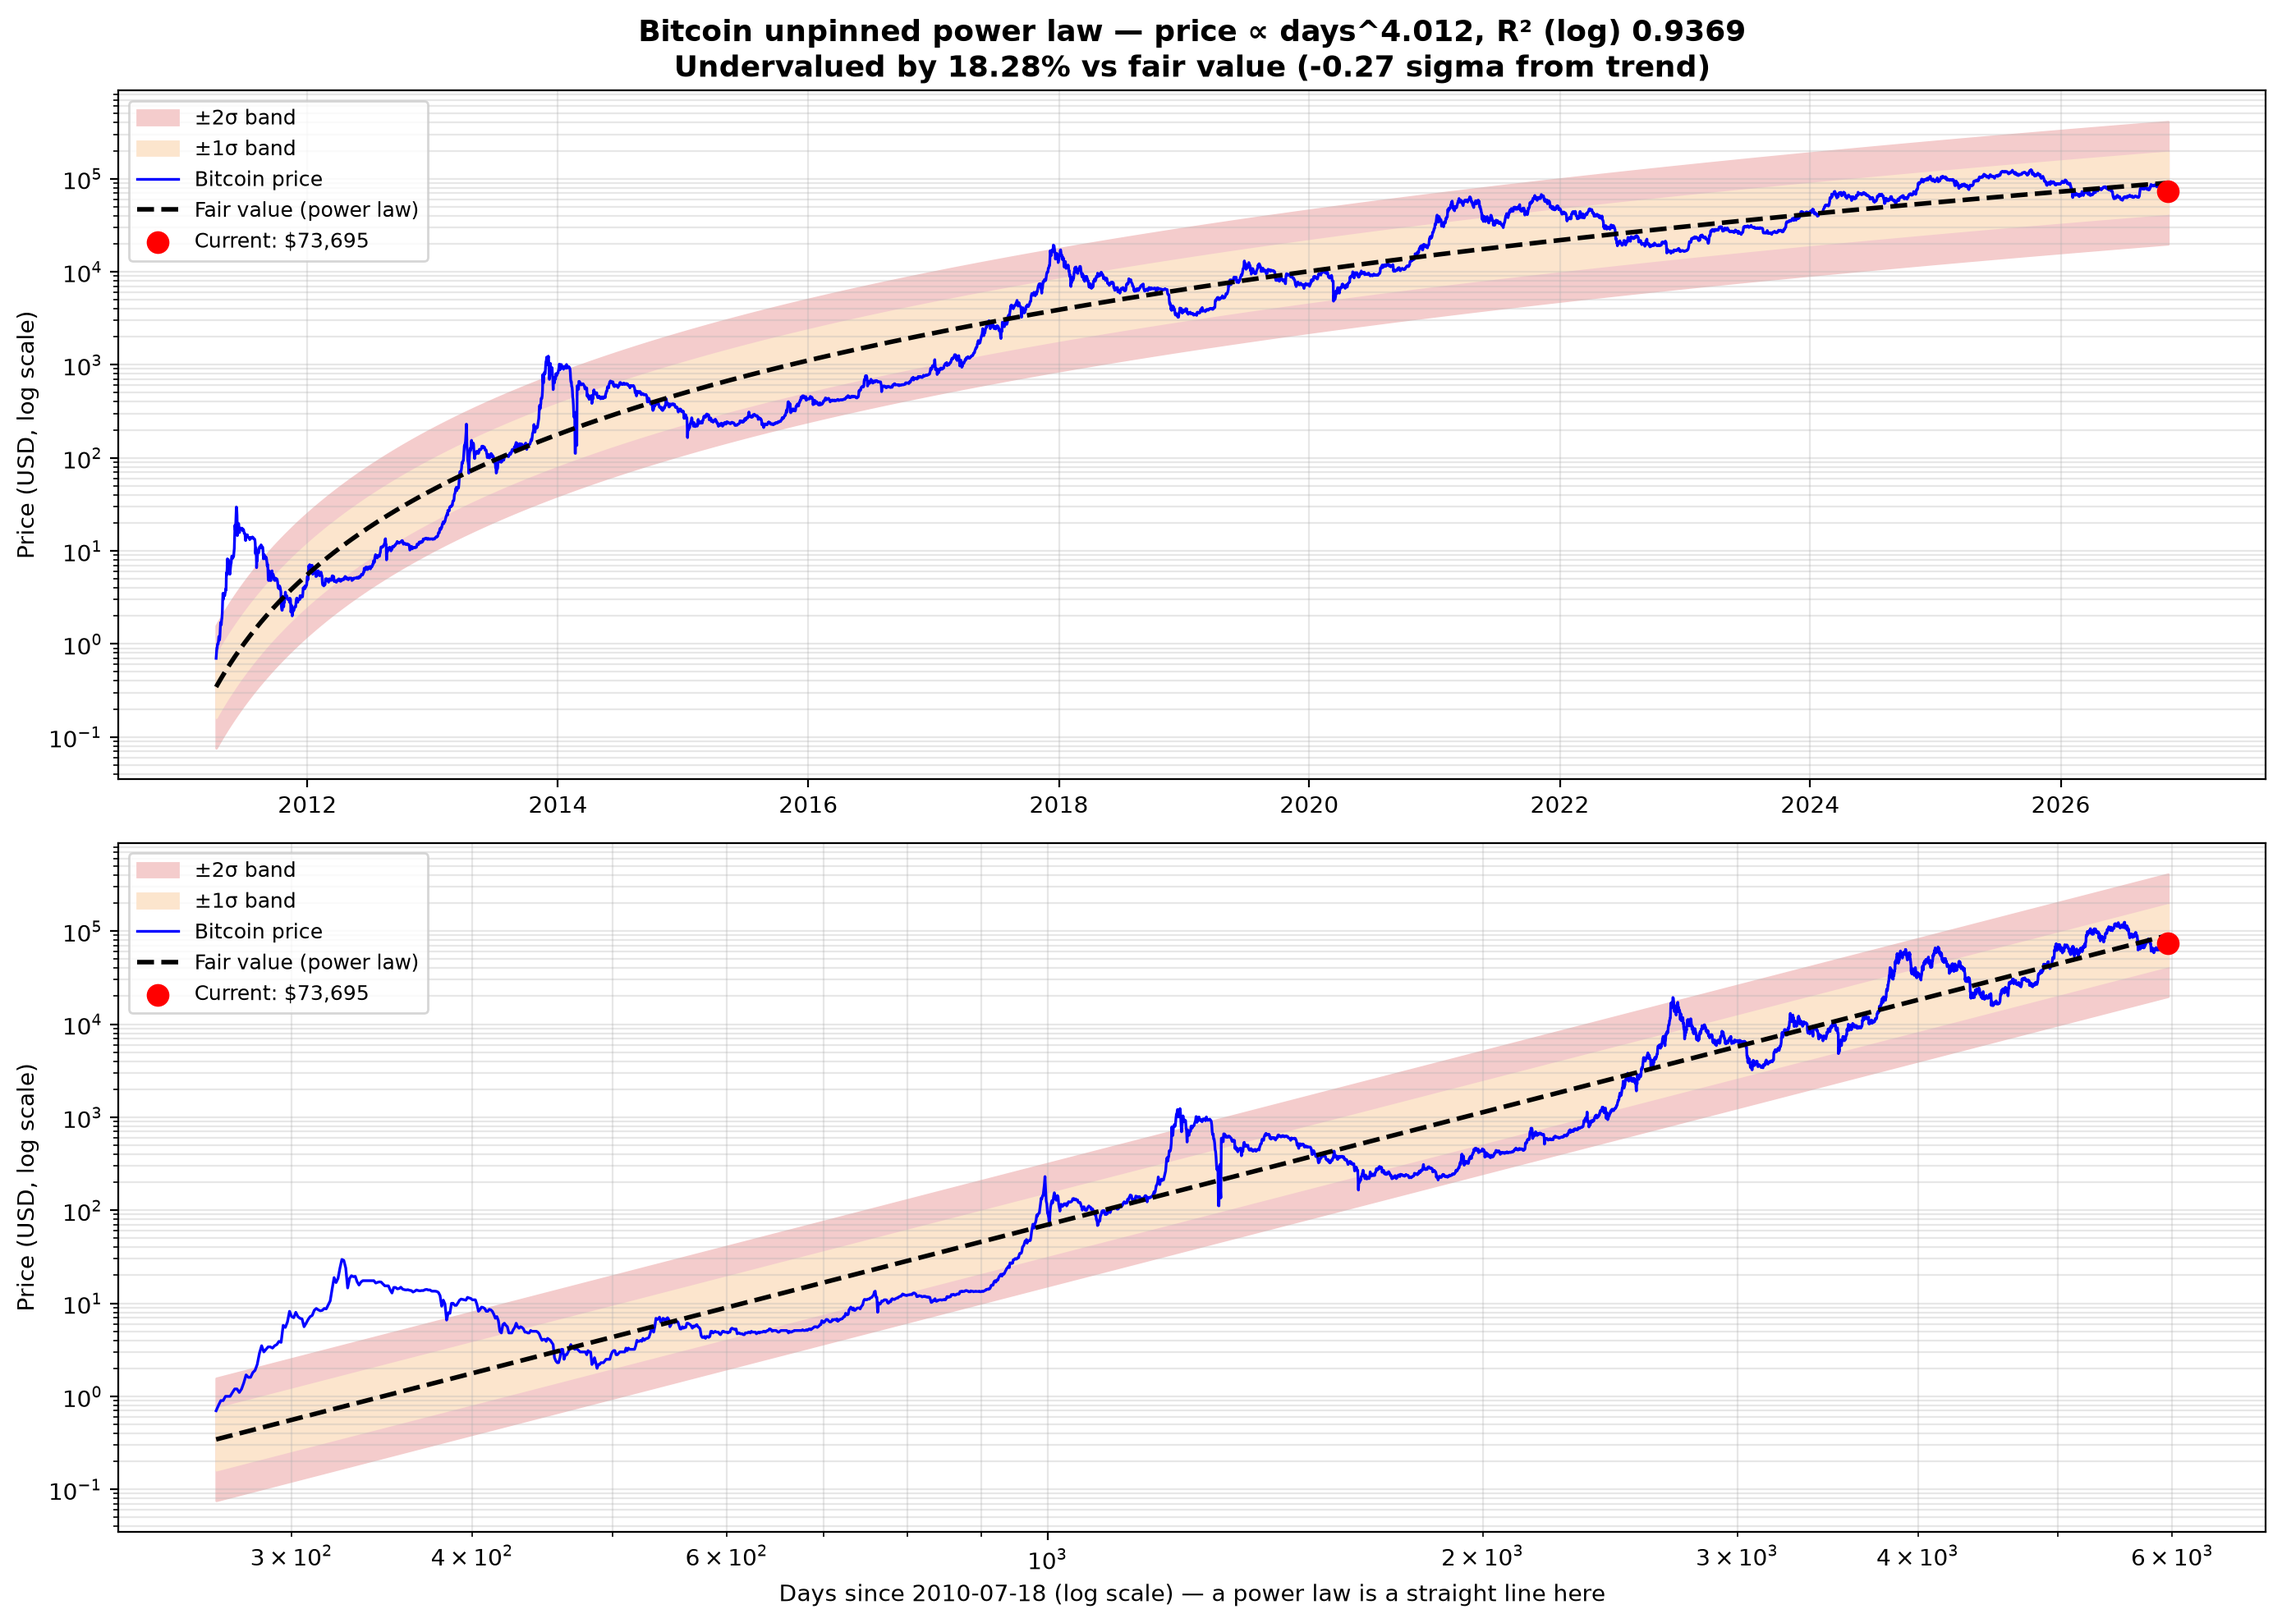
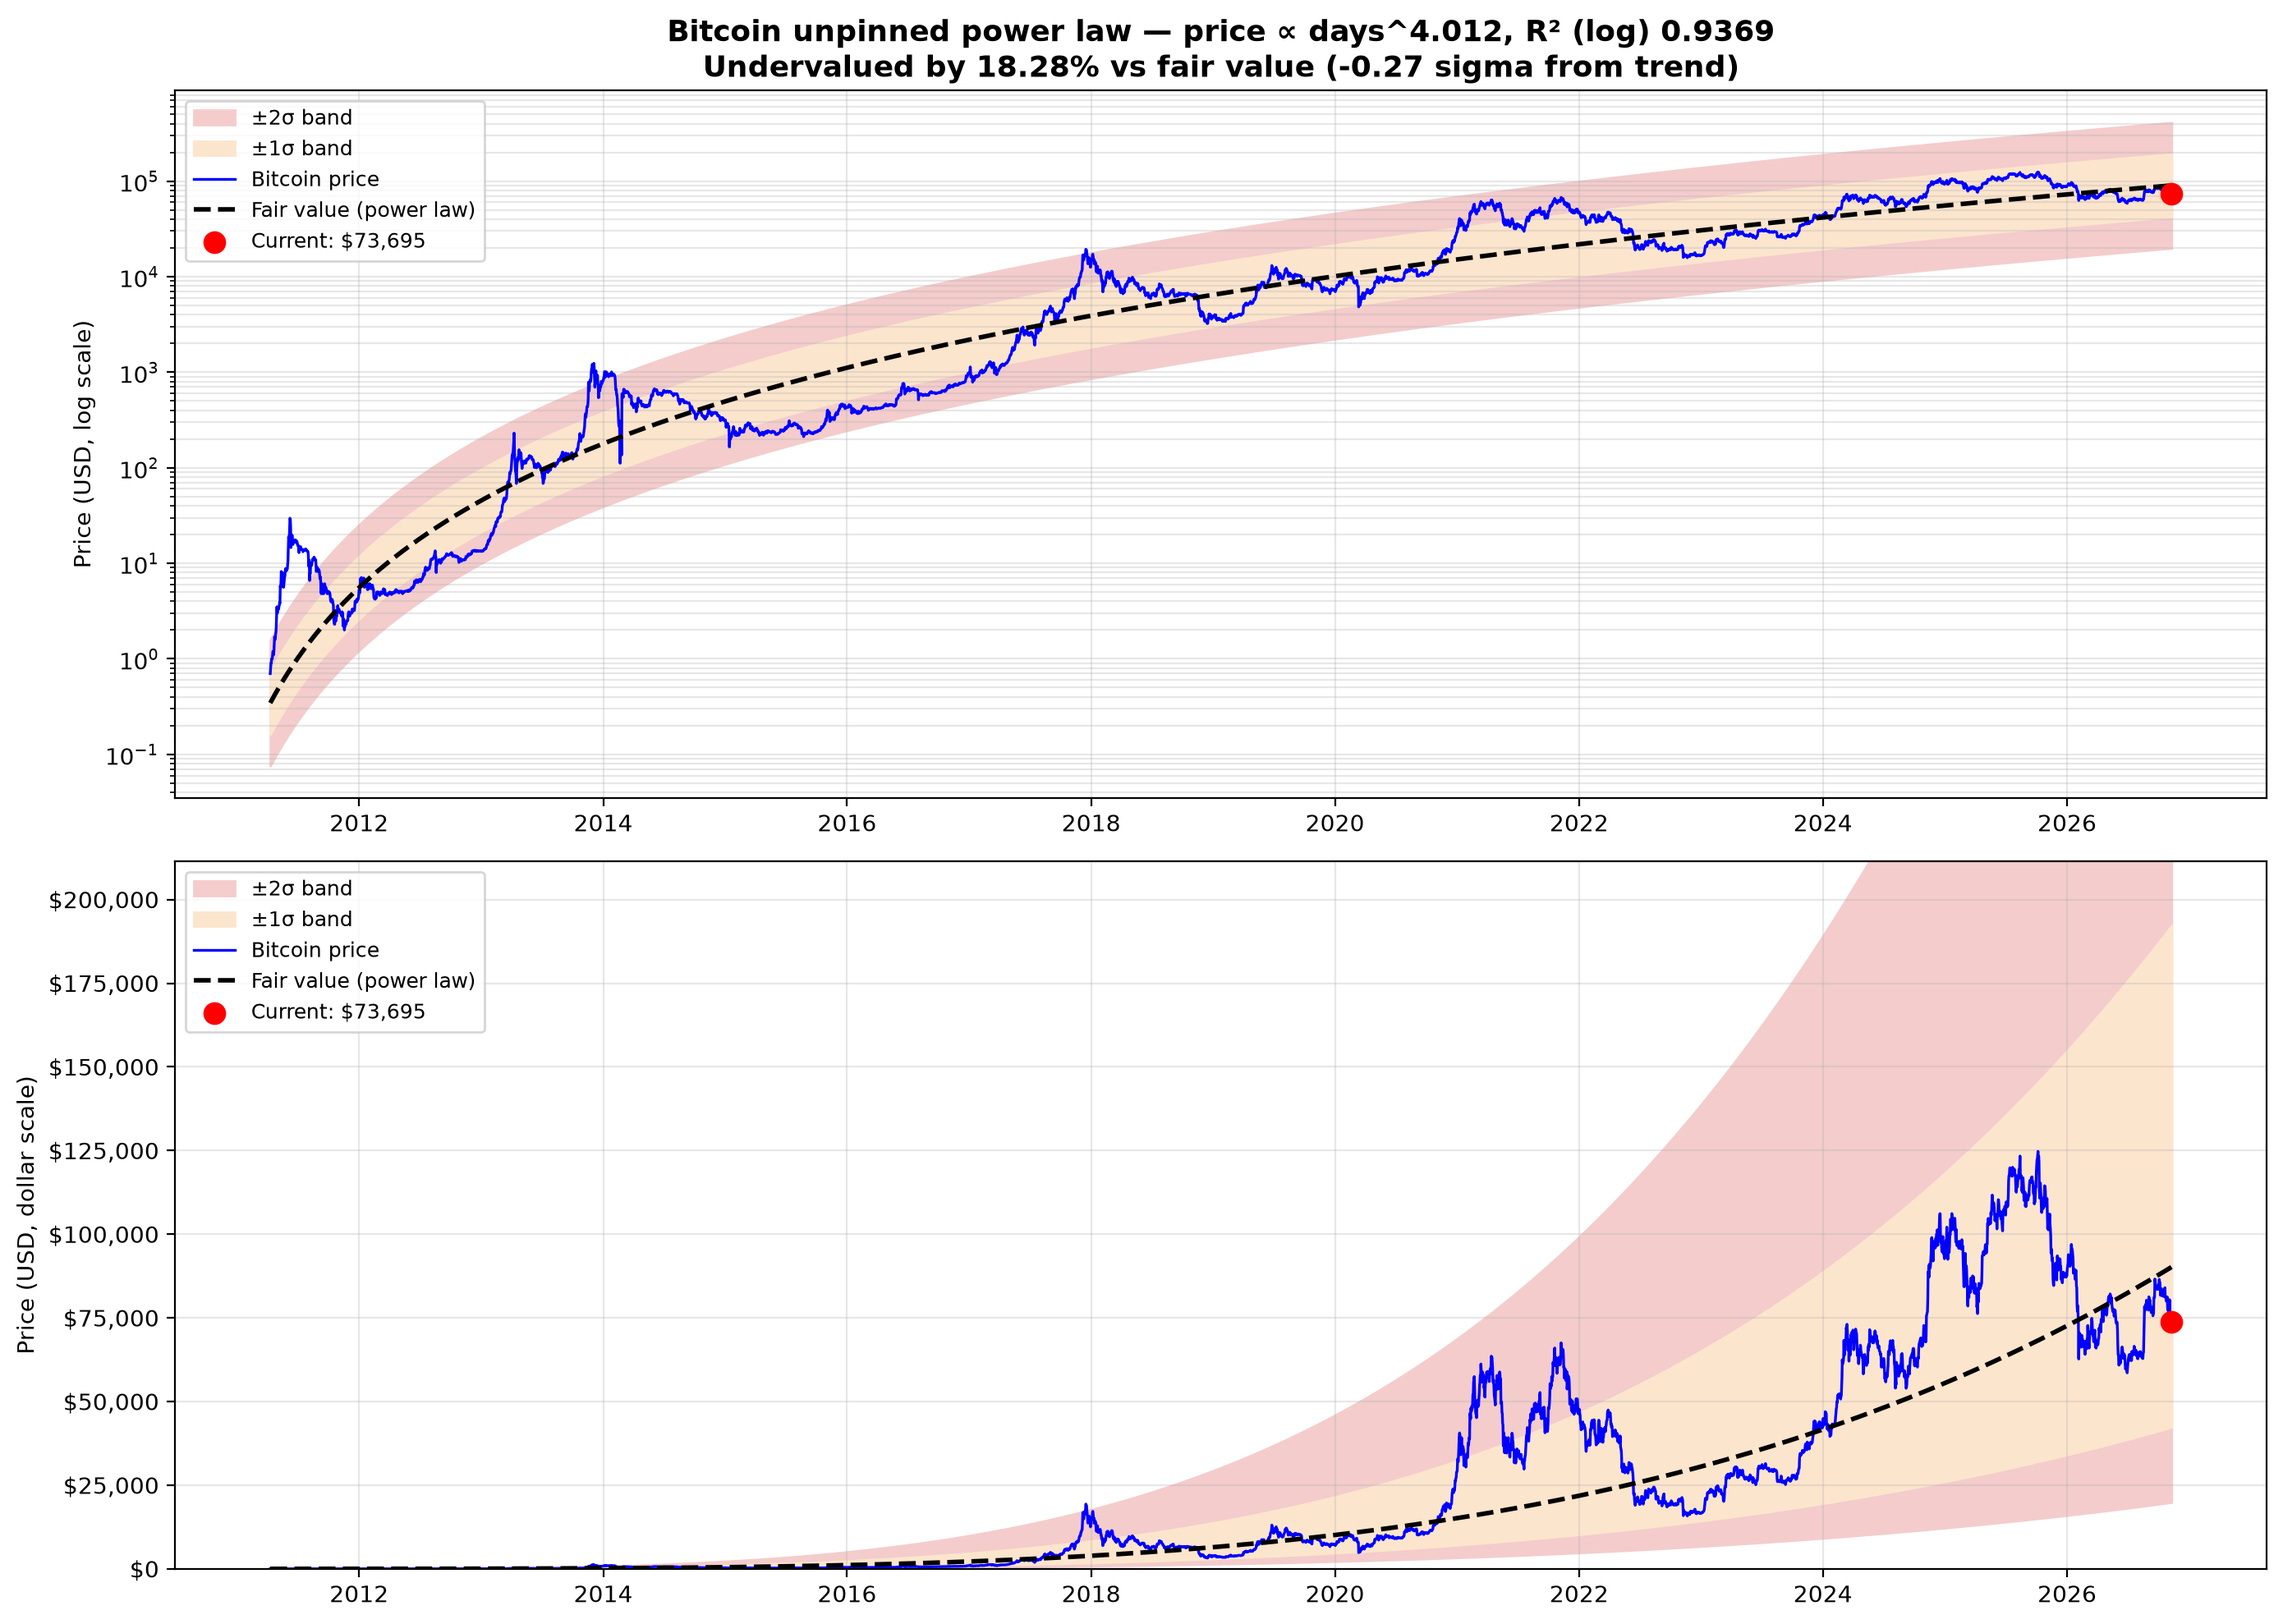
BTC power law: require config start date, dollar-scale bottom chart
START_DATE (2011-04-10) and GENESIS_DATE are now required in the power-law
config; the fit no longer falls back to starting at day 0. The bottom chart
in both the fit output and the interactive slider is now price in dollars
over time instead of a log-log view.

diff --git a/Crypto/Bitcoin/power_law_unpinned/interactive_rainbow.py b/Crypto/Bitcoin/power_law_unpinned/interactive_rainbow.py
@@ -24,22 +24,23 @@ def main():
     start_k = FIXED_EXPONENT if FIXED_EXPONENT is not None else auto["k"]
     print(f"Automatic fit: k = {auto['k']:.4f}, R² (log) {auto['r2']:.4f}")
 
-    fig, (ax_time, ax_loglog) = plt.subplots(2, 1, figsize=(14, 10))
+    fig, (ax_time, ax_dollar) = plt.subplots(2, 1, figsize=(14, 10))
     plt.subplots_adjust(bottom=0.12, top=0.88)
     lines, fills = [], []
-    for ax, x in [(ax_time, df["Date"]), (ax_loglog, days)]:
+    x = df["Date"]
+    for ax in (ax_time, ax_dollar):
         ax.plot(x, df["Price"], color="blue", linewidth=1.2, label=f"{CURRENCY_NAME} price")
         ax.plot(x, fair_price(auto, days), color="grey", linewidth=1,
                 label=f"Automatic fit (k = {auto['k']:.3f})")
         (line,) = ax.plot(x, fair_price(auto, days), color="black", linestyle="--",
                           linewidth=2, label="Slider model")
         lines.append((ax, x, line))
-        ax.set_yscale("log")
-        ax.set_ylabel("Price (USD, log scale)")
         ax.grid(True, alpha=0.3, which="both")
         ax.legend(loc="upper left", fontsize=9)
-    ax_loglog.set_xscale("log")
-    ax_loglog.set_xlabel(f"Days since {df.attrs['genesis']:%Y-%m-%d} (log scale)")
+    ax_time.set_yscale("log")
+    ax_time.set_ylabel("Price (USD, log scale)")
+    ax_dollar.set_ylabel("Price (USD, dollar scale)")
+    ax_dollar.yaxis.set_major_formatter(plt.FuncFormatter(lambda val, _: f"${val:,.0f}"))
     info = fig.text(0.5, 0.94, "", ha="center", fontsize=11,
                     bbox=dict(facecolor="lightgray", alpha=0.8, boxstyle="round,pad=0.3"))
 
@@ -59,6 +60,7 @@ def main():
             fills.append(ax.fill_between(x, fair * np.exp(-model["sigma"]),
                                          fair * np.exp(model["sigma"]), color="#fce5cd",
                                          alpha=0.7, zorder=0))
+        ax_dollar.set_ylim(0, max(df["Price"].max(), fair[-1] * np.exp(model["sigma"])) * 1.1)
         v = valuation(df, model)
         info.set_text(f"k {k:.4f} | R² (log) {model['r2']:.4f} | growth now "
                       f"{annual_growth_at(model, days[-1]):.1f}%/yr | Fair {format_price(v['fair'])} | "

diff --git a/Crypto/Bitcoin/power_law_unpinned/optimize_intercept.py b/Crypto/Bitcoin/power_law_unpinned/optimize_intercept.py
@@ -40,20 +40,23 @@ def make_chart(df, model, v, chart_file):
     days = df["Days"].to_numpy()
     fair = fair_price(model, days)
     fig, axes = plt.subplots(2, 1, figsize=(14, 10))
-    for ax, x_log in zip(axes, [False, True]):
-        x = df["Date"] if not x_log else days
+    x = df["Date"]
+    for ax, log_scale in zip(axes, [True, False]):
         for n, colour in BANDS:
             ax.fill_between(x, fair * np.exp(-n * model["sigma"]),
                             fair * np.exp(n * model["sigma"]), color=colour, label=f"±{n}σ band")
         ax.plot(x, df["Price"], color="blue", linewidth=1.2, label=f"{CURRENCY_NAME} price")
         ax.plot(x, fair, color="black", linestyle="--", linewidth=2, label="Fair value (power law)")
-        ax.scatter(x.iloc[-1] if not x_log else days[-1], v["current"], color="red", s=80,
+        ax.scatter(x.iloc[-1], v["current"], color="red", s=80,
                    zorder=10, label=f"Current: {format_price(v['current'])}")
-        ax.set_yscale("log")
-        if x_log:
-            ax.set_xscale("log")
-            ax.set_xlabel(f"Days since {df.attrs['genesis']:%Y-%m-%d} (log scale) — a power law is a straight line here")
-        ax.set_ylabel("Price (USD, log scale)")
+        if log_scale:
+            ax.set_yscale("log")
+            ax.set_ylabel("Price (USD, log scale)")
+        else:
+            # Dollar scale: cap the view so the +2σ band doesn't squash the price line
+            ax.set_ylim(0, max(df["Price"].max(), fair[-1] * np.exp(model["sigma"])) * 1.1)
+            ax.yaxis.set_major_formatter(plt.FuncFormatter(lambda val, _: f"${val:,.0f}"))
+            ax.set_ylabel("Price (USD, dollar scale)")
         ax.grid(True, alpha=0.3, which="both")
         ax.legend(loc="upper left", fontsize=9)
     axes[0].set_title(

diff --git a/Crypto/Bitcoin/power_law_unpinned/model.py b/Crypto/Bitcoin/power_law_unpinned/model.py
@@ -43,8 +43,10 @@ def load_data(end_date=None):
         prices = prices.str.replace(",", "", regex=False)
     df["Price"] = pd.to_numeric(prices, errors="coerce")
     df = df.dropna(subset=["Date", "Price"]).sort_values("Date")
-    genesis = pd.Timestamp(GENESIS_DATE) if GENESIS_DATE else df["Date"].min()
-    df = df[df["Date"] >= pd.Timestamp(START_DATE)] if START_DATE else df[df["Date"] >= genesis]
+    if not GENESIS_DATE or not START_DATE:
+        raise ValueError("Set both GENESIS_DATE and START_DATE in config.py")
+    genesis = pd.Timestamp(GENESIS_DATE)
+    df = df[df["Date"] >= pd.Timestamp(START_DATE)]
     if end_date is not None:
         df = df[df["Date"] <= pd.Timestamp(end_date)]
     df = df[df["Price"] > 0].reset_index(drop=True)

diff --git a/Crypto/Bitcoin/power_law_unpinned/config.py b/Crypto/Bitcoin/power_law_unpinned/config.py
@@ -15,9 +15,10 @@ CURRENCY_NAME_LOWER = "bitcoin"
 # 2010-07-18 is the first day of the Bitcoin price history (same as log_model_v2).
 GENESIS_DATE = "2010-07-18"
 
-# First date included in the fit. Prices before ~2011 are rounded to $0.1
-# steps in the source data, so the fit starts later (same as log_model_v2).
-# "" = use all data from GENESIS_DATE.
+# First date included in the fit and shown on the charts (required).
+# Prices before ~2011 are rounded to $0.1 steps in the source data, and the
+# first months would dominate a log-of-days fit, so the fit starts here
+# (same as log_model_v2). Day 0 stays at GENESIS_DATE.
 START_DATE = "2011-04-10"
 
 # None = fit the exponent k automatically.
